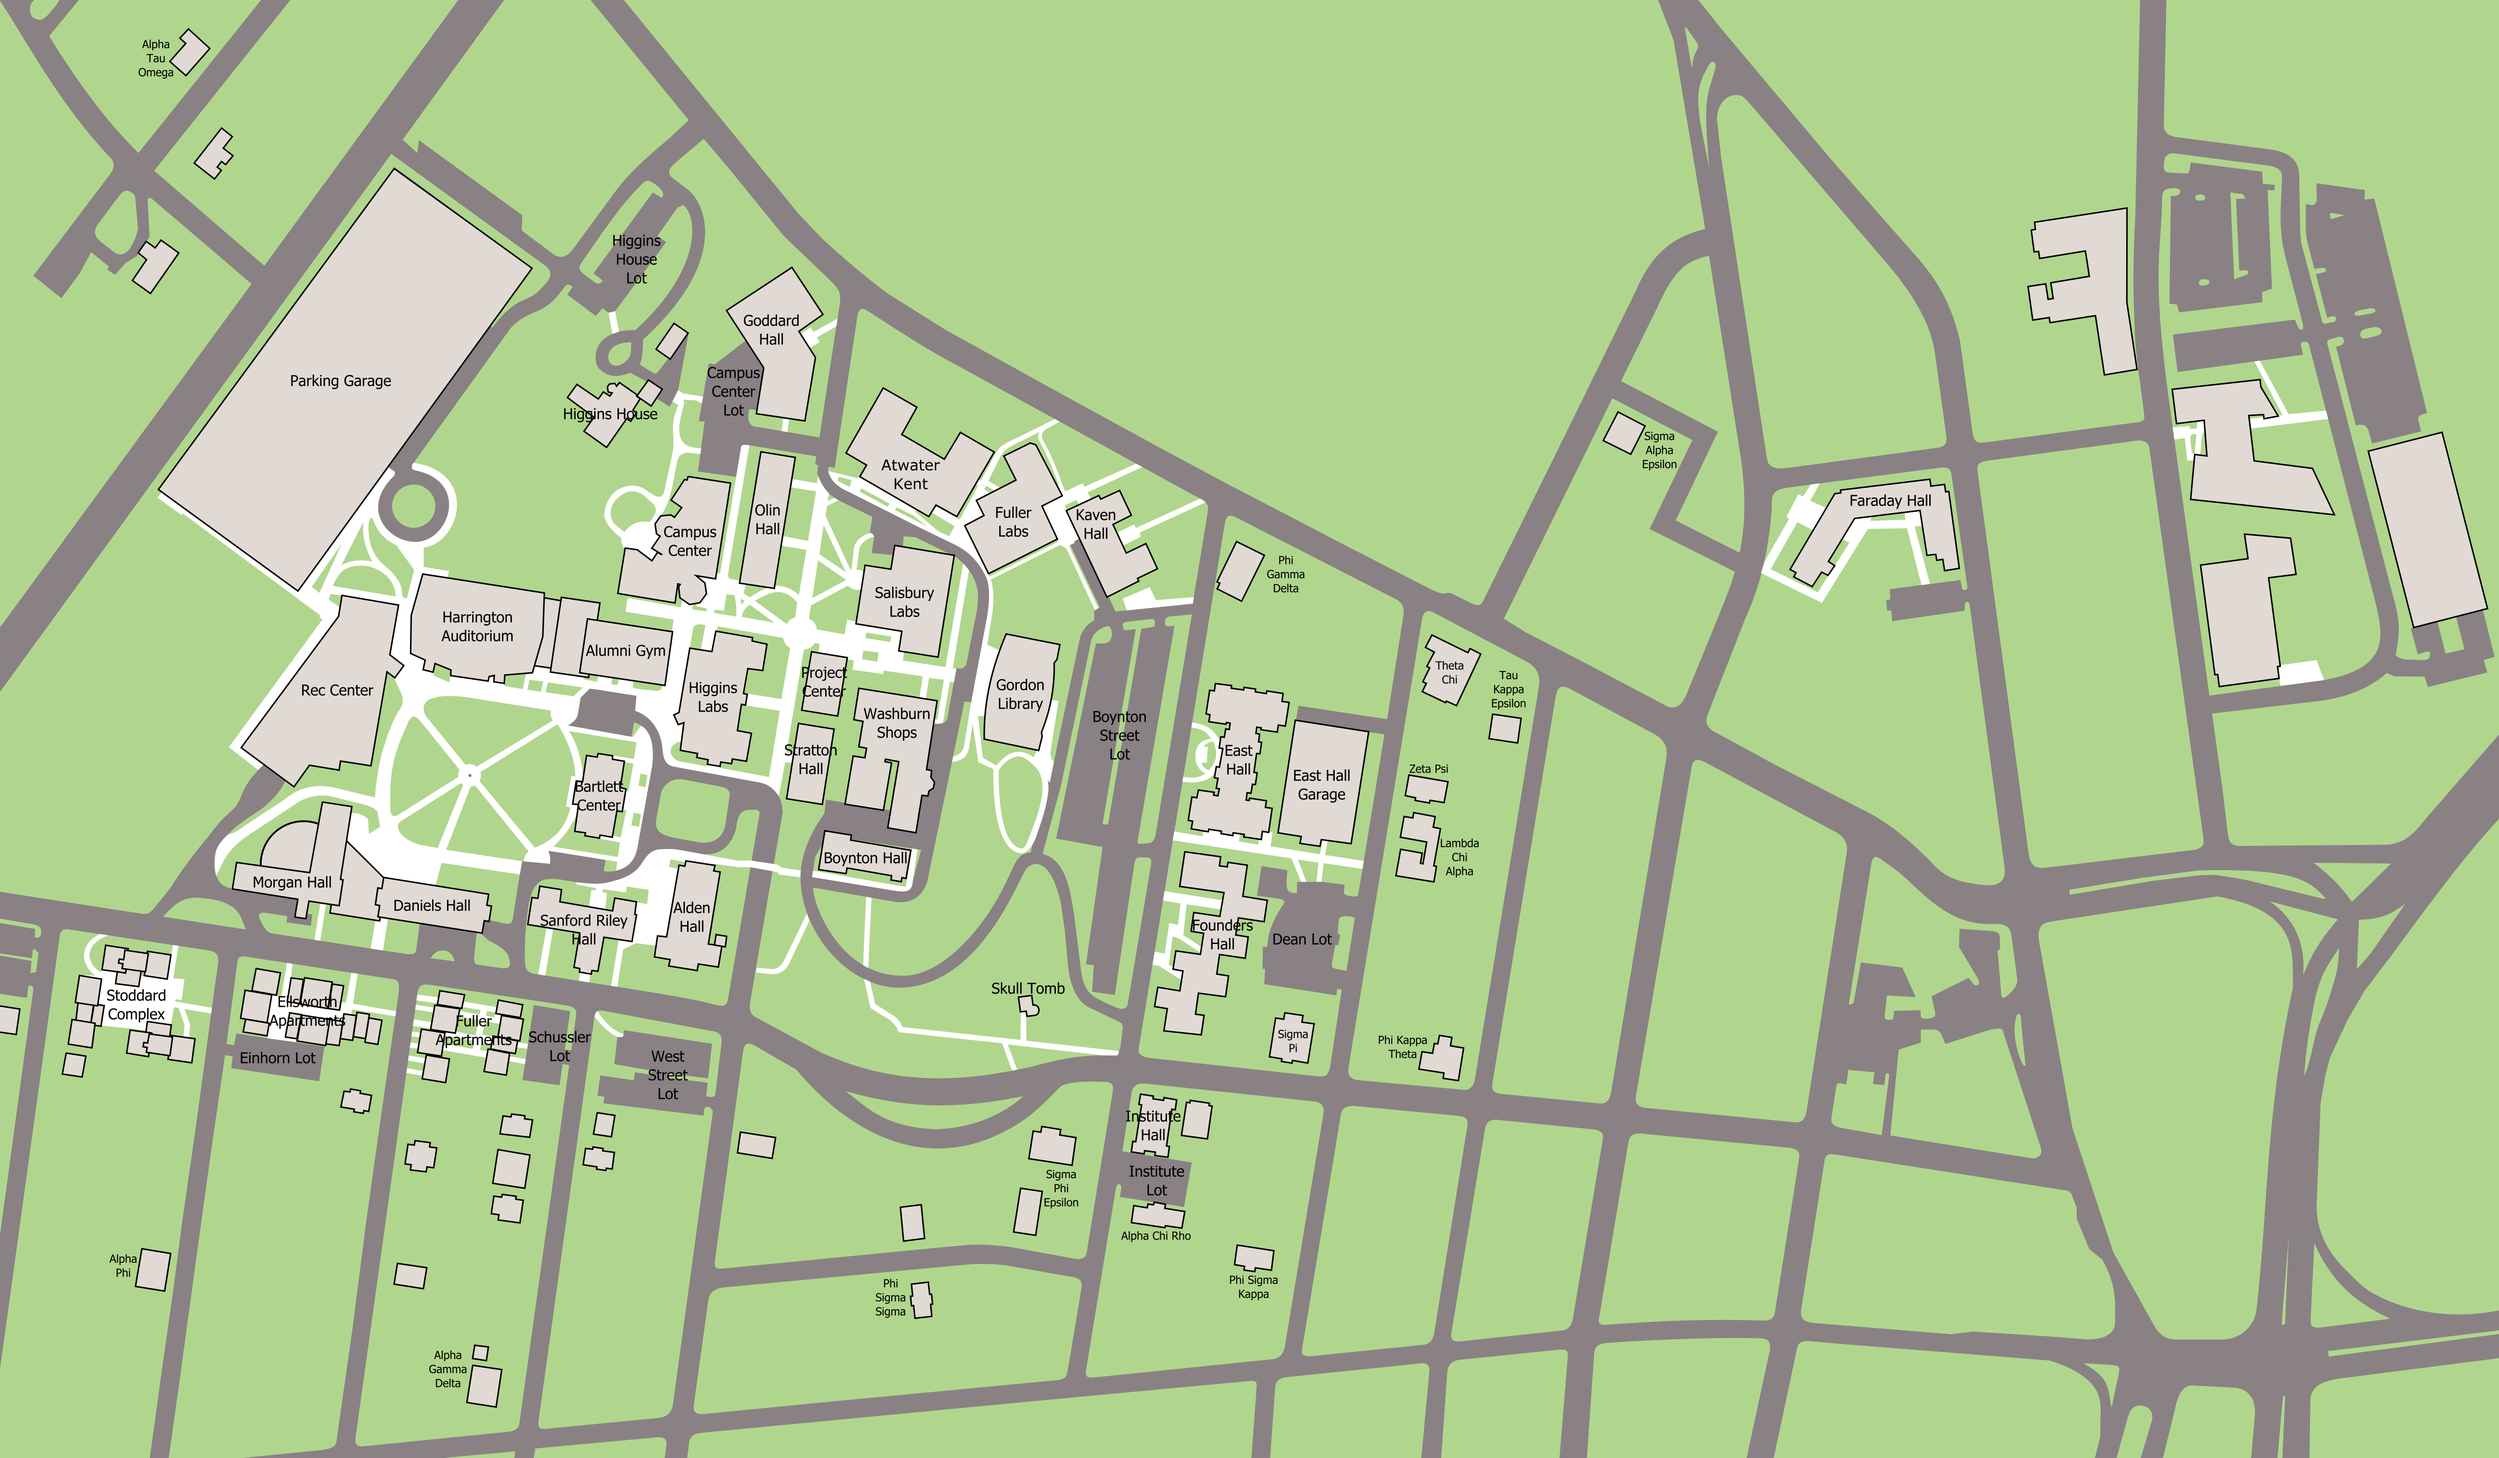
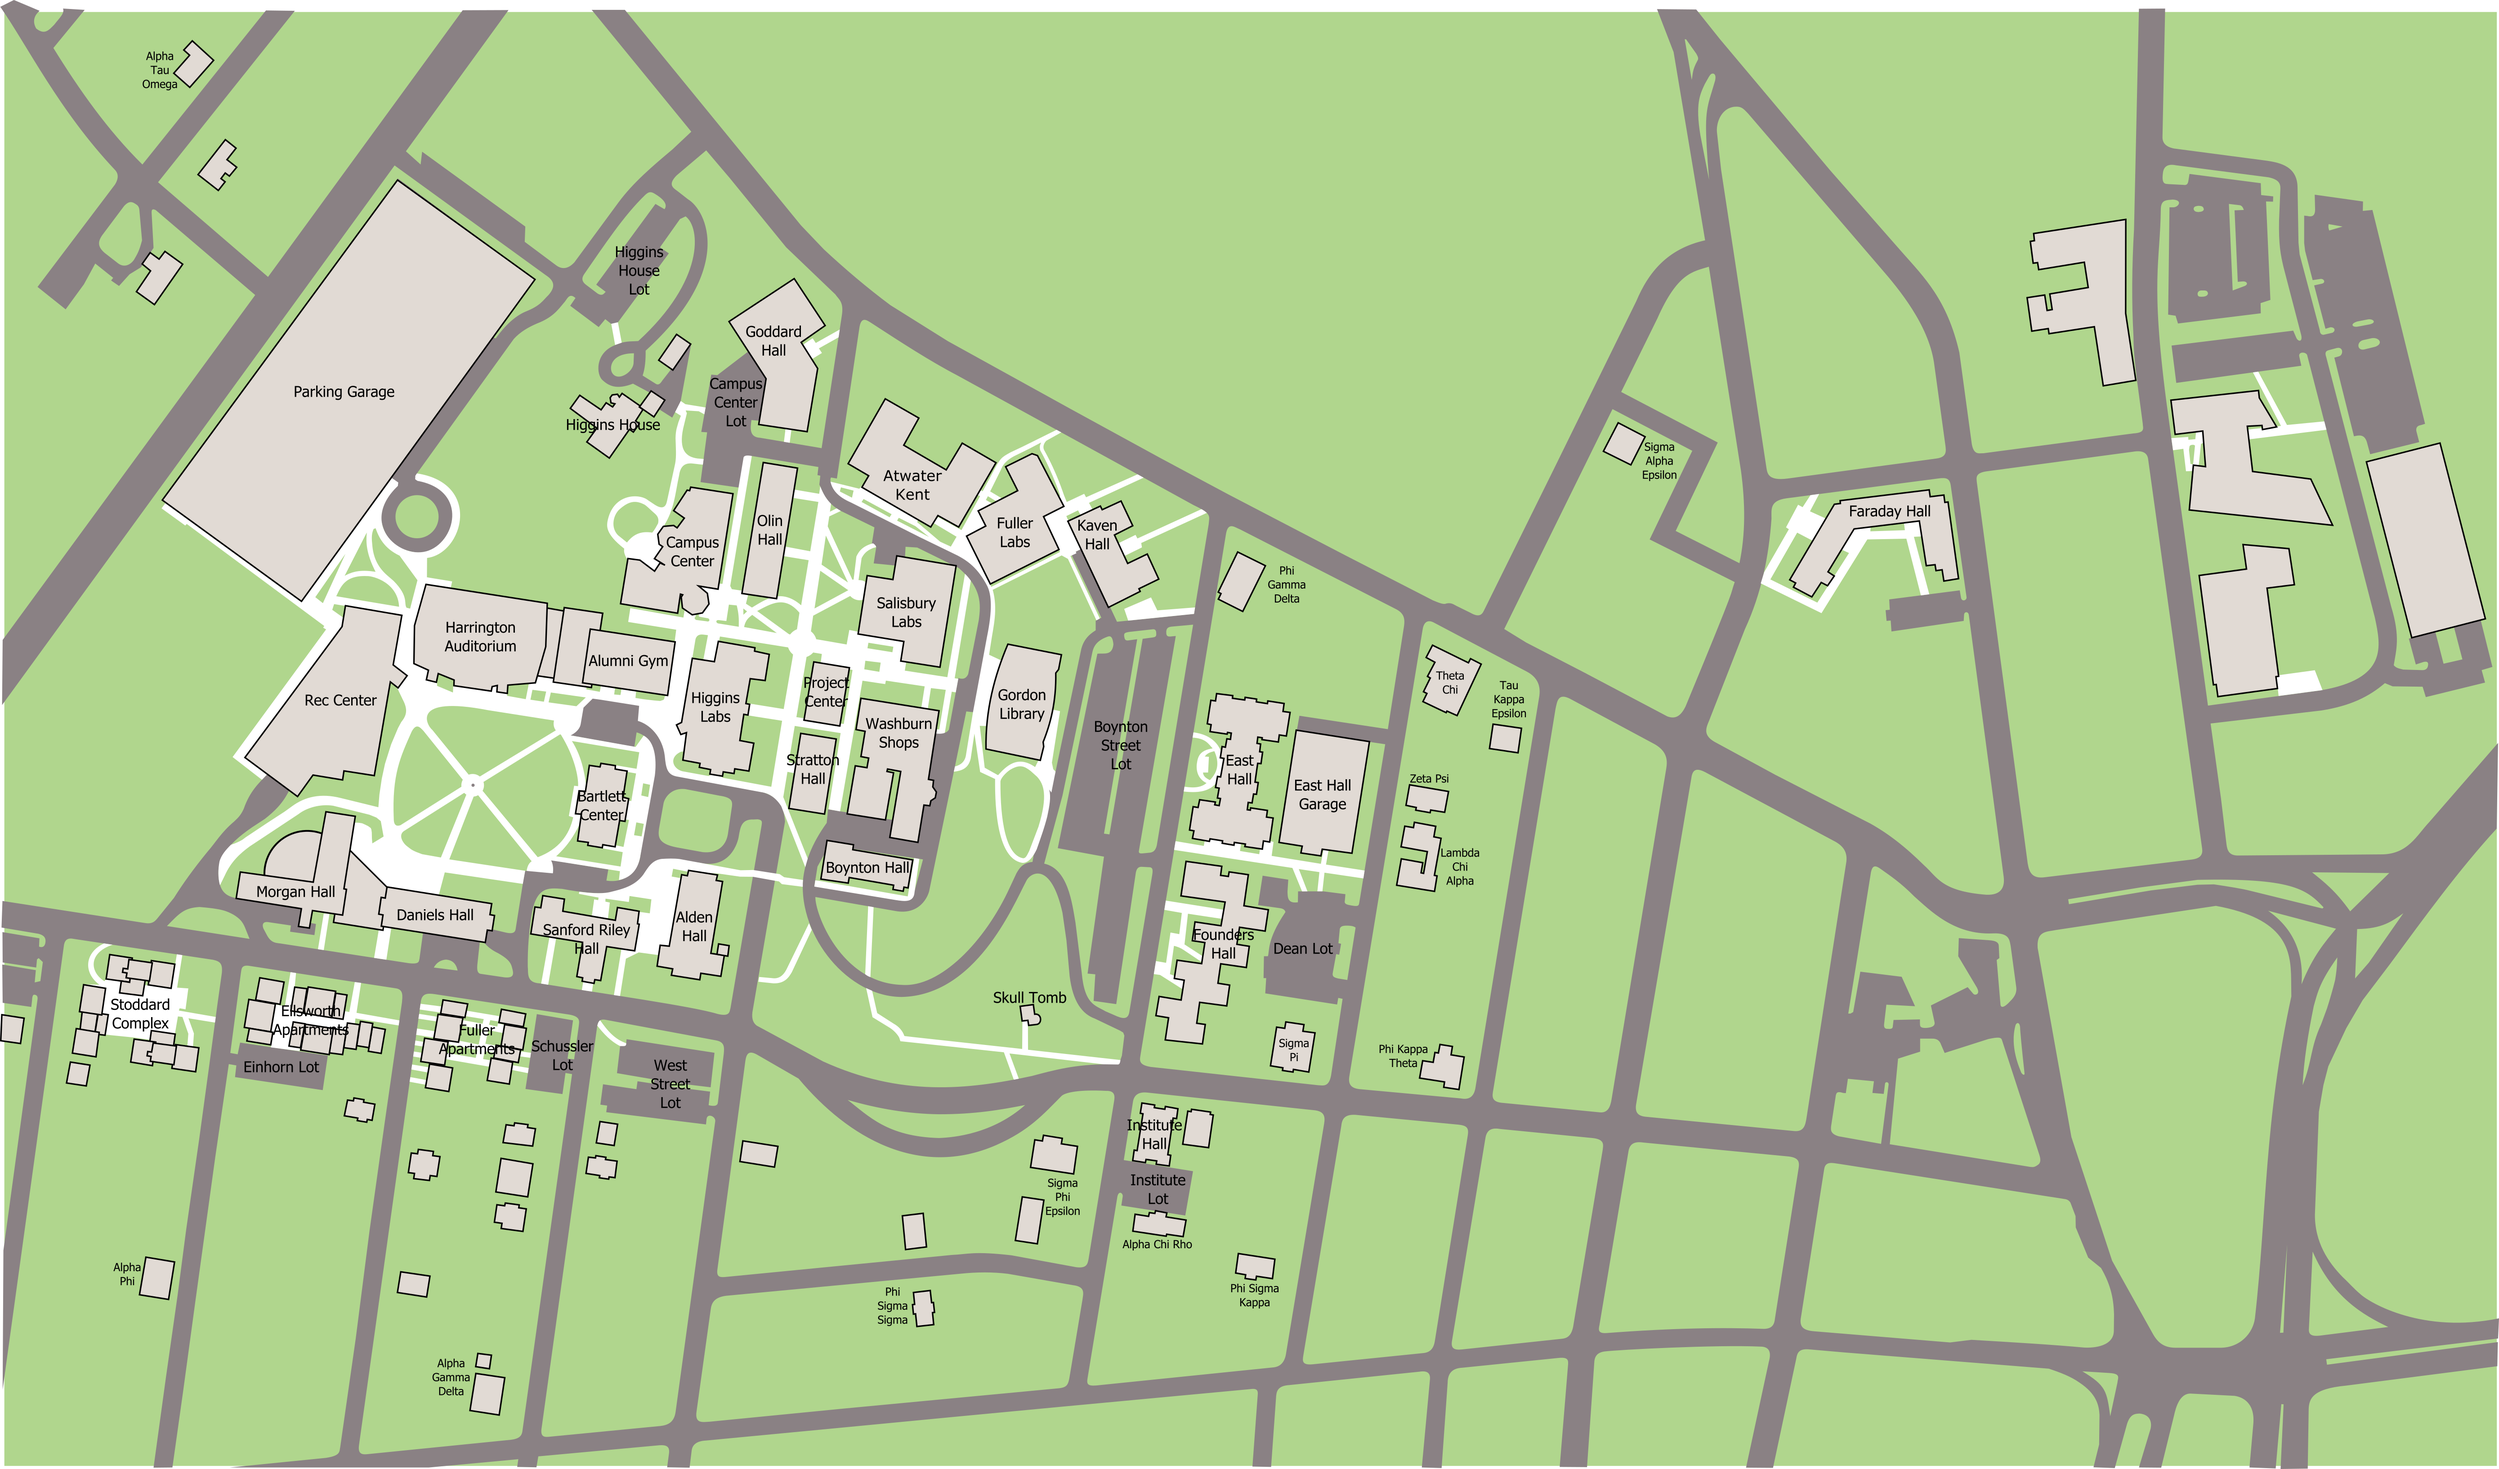
Edited vector and area shown when loading in campus

diff --git a/src/ui/HermesUI.java b/src/ui/HermesUI.java
@@ -665,7 +665,7 @@ public class HermesUI extends JPanel implements IHumanInteractionListener{
 			}
 			tabbedPane.getSelectedTabPane().setSelectedIndex(0);
 		}
-		
+		tabbedPane.getSelectedTabPane().getSelectedTabPane().setOffset(new Point(-13163,-10936));
 		//frameHermes.getContentPane().add(zoomPanel);
 
 		/*
